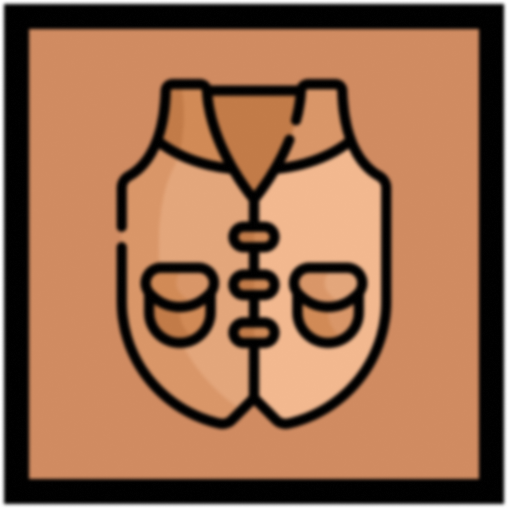
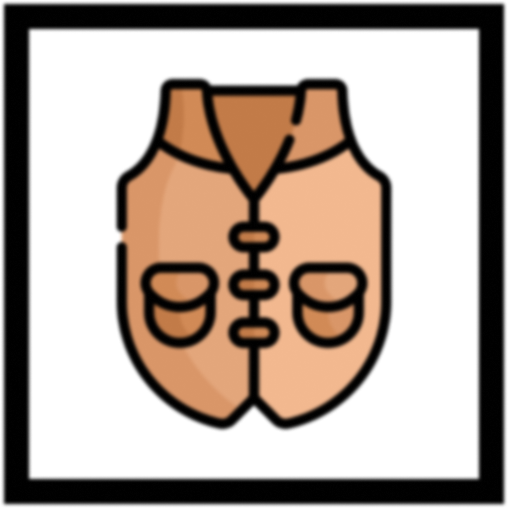
interactive background-colors add on cards

diff --git a/form.html b/form.html
@@ -21,7 +21,7 @@
             <div id="test">
                 <p id="ftext">Number of Players</p> 
                 <input type="range" id="rangeInput" name="nplayers" min="1" max="4" oninput="this.nextElementSibling.value = this.value" required>
-                <output for="nplayers" id="output">*</output>
+                <output for="nplayers" id="output">3</output>
             </div>
 
 
@@ -38,12 +38,12 @@
             <div id="test">
                 <p id="ftext">X</p> 
                 <input type="range" id="rangeInput" name="fx" min="1" max="6" oninput="this.nextElementSibling.value = this.value" required>
-                <output for="fx" id="output">*</output>
+                <output for="fx" id="output">4</output>
             </div>
             <div id="test">
                 <p id="ftext">Y</p>   
-                <input type="range" id="rangeInput" name="fy" min="1" max="4" oninput="this.nextElementSibling.value = this.value" required>
-                <output for="fy" id="output">*</output>
+                <input type="range" id="rangeInput" name="fy" min="1" max="5" oninput="this.nextElementSibling.value = this.value" required>
+                <output for="fy" id="output">3</output>
             </div>
         </div>
         <!--Submit button-->

diff --git a/code.js b/code.js
@@ -68,7 +68,7 @@ function flipCard(id, name){
         }
 
         // Now check if the cards are equals
-        setTimeout(checkTheCards, 1000);
+        setTimeout(checkTheCards, 500);
     }
 
 }
@@ -97,10 +97,6 @@ function checkTheCards(){
 
         existFlippedCard = false;
     }else{
-        alert("You have found a pair!");
-
-        // its equals, now change a class to the twho same cards
-
         // Remove a noflipcard class with the twho same cards and add a flipcard class
         document.getElementById(flippedcard1Id).classList.remove('noFlipCard');
         document.getElementById(flippedcard1Id).classList.add('flipCard');

diff --git a/styles.css b/styles.css
@@ -3,8 +3,8 @@
     --color1: #f9b94b;
     --color2: #4e6c84;
     --color3: #915135;
-    --color4: #a76f60;
-    --color5: #562908;
+    --color4: #b55f5d;
+    --color5: #72824f;
     --white: #ffffff;
     --black: #000000;
 }
@@ -89,6 +89,16 @@ body{
     height:50%;
     border-radius: 5px;
     cursor: pointer;
+}
+
+.noFlipCard{
+    background-color: var(--color4);
+    border-radius: 5px;
+}
+
+.flipCard{
+    background-color: var(--color5);
+    border-radius: 5px;
 }
 
 /* Mobile mediaquery */
